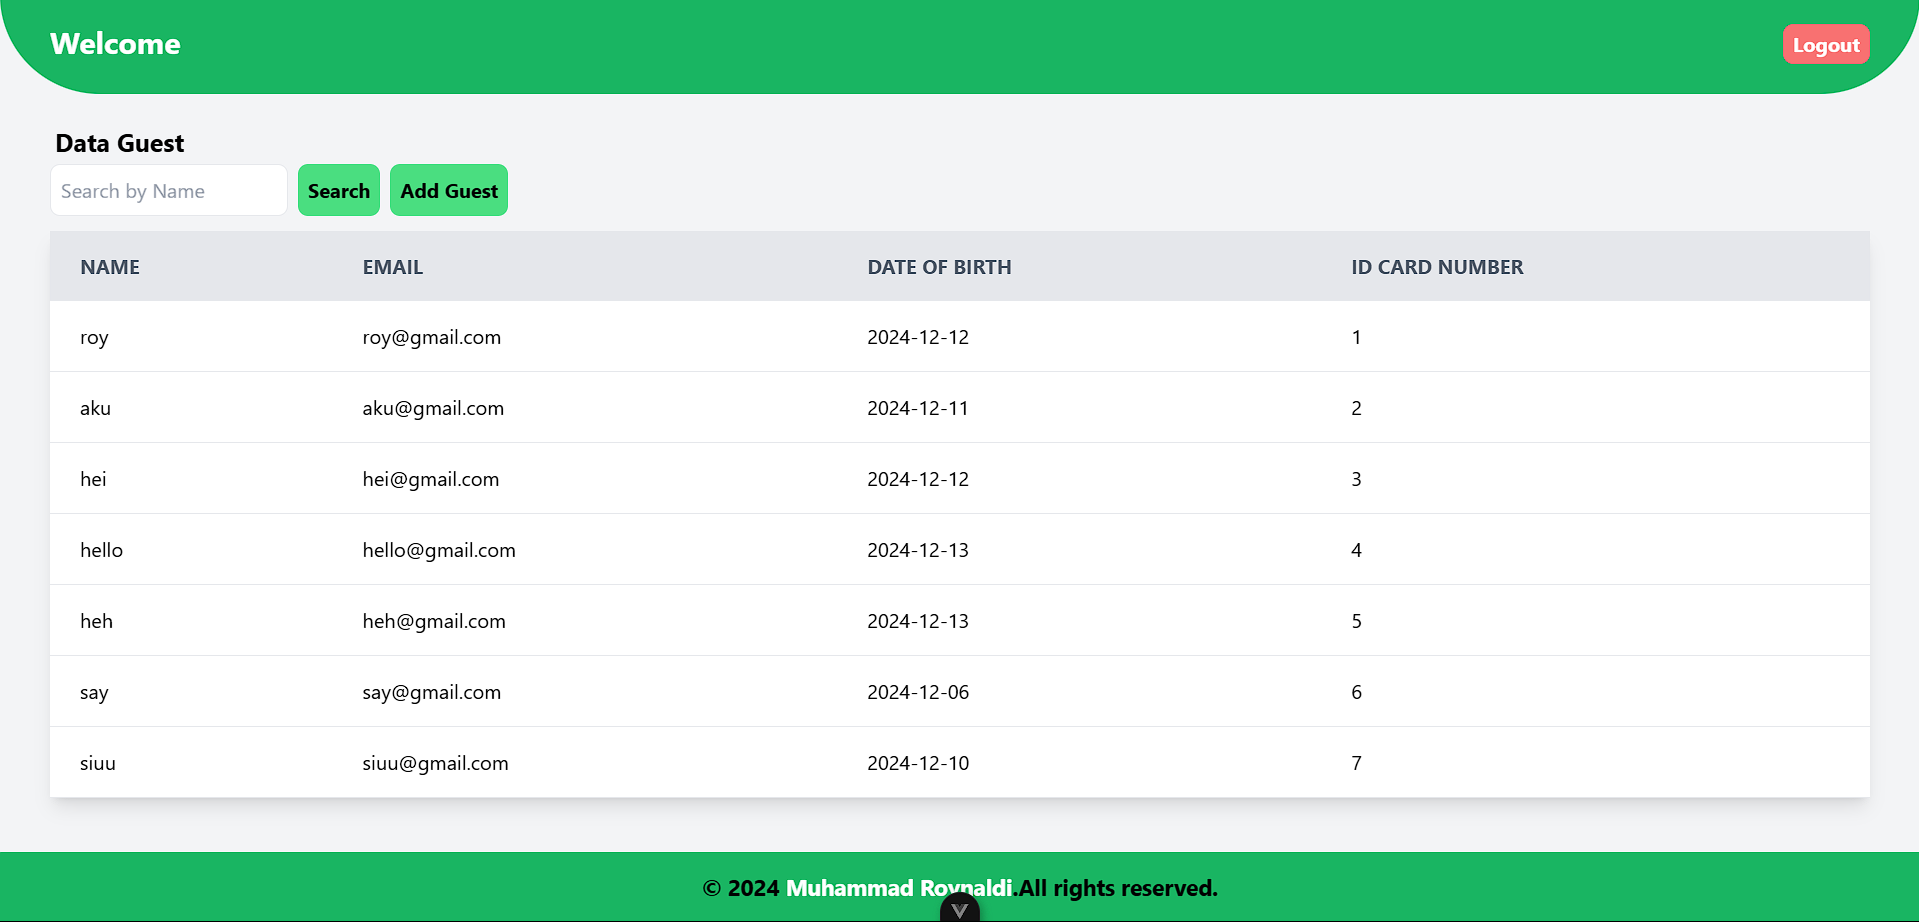
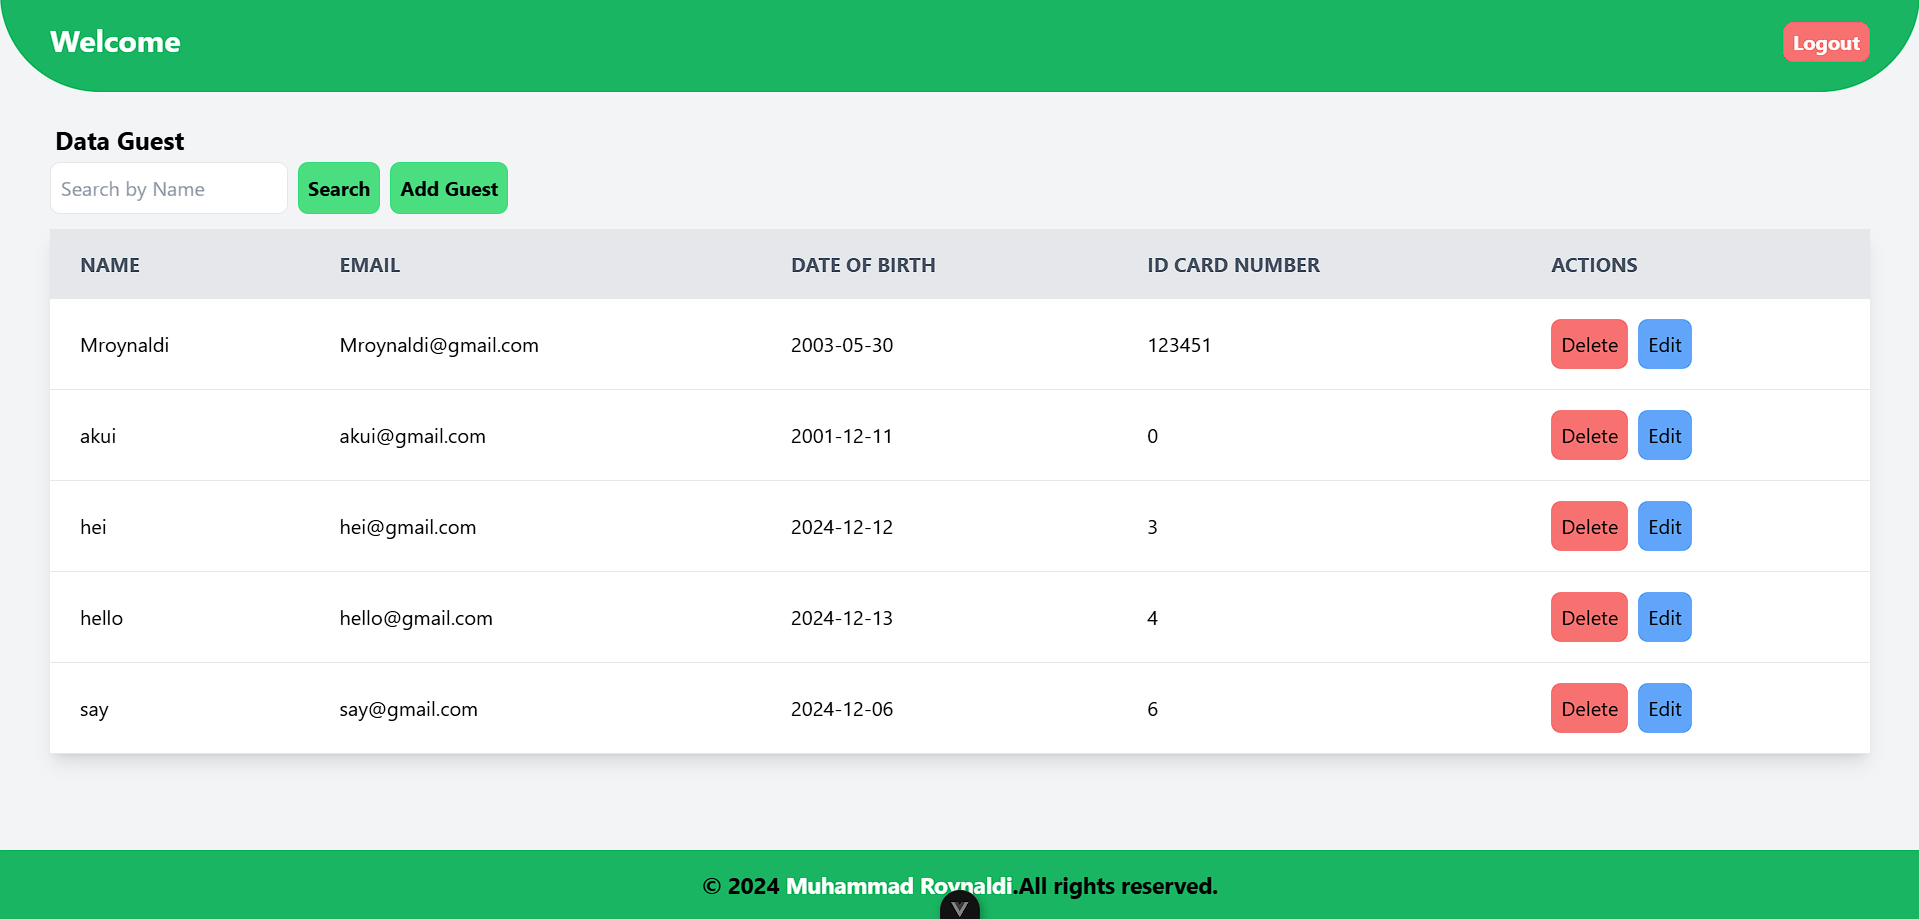
Update Readme.md

diff --git a/README.md b/README.md
@@ -6,8 +6,10 @@ Project Technical Test Web Development Aksesmu (Guest Book).
     2. Register User
     3. Logout User
     4. Add data Guest
-    5. Show data Guest
-    6. Search data Guest
+    5. Update data Guest
+    6. Delete data Guest
+    7. Show data Guest
+    8. Search data Guest
 ## Prasyarat
 Sebelum menjalankan proyek ini, pastikan kamu memiliki hal-hal berikut:
 
@@ -58,6 +60,8 @@ Menjalankan Projek:
 ![Logo](./public/ss-img/home.png)
   ### Add Guest Page
 ![Logo](./public/ss-img/add.png)
+  ### Update Guest Page
+![Logo](./public/ss-img/update.png)
 
 
 ## Sekian dan Terima kasih
